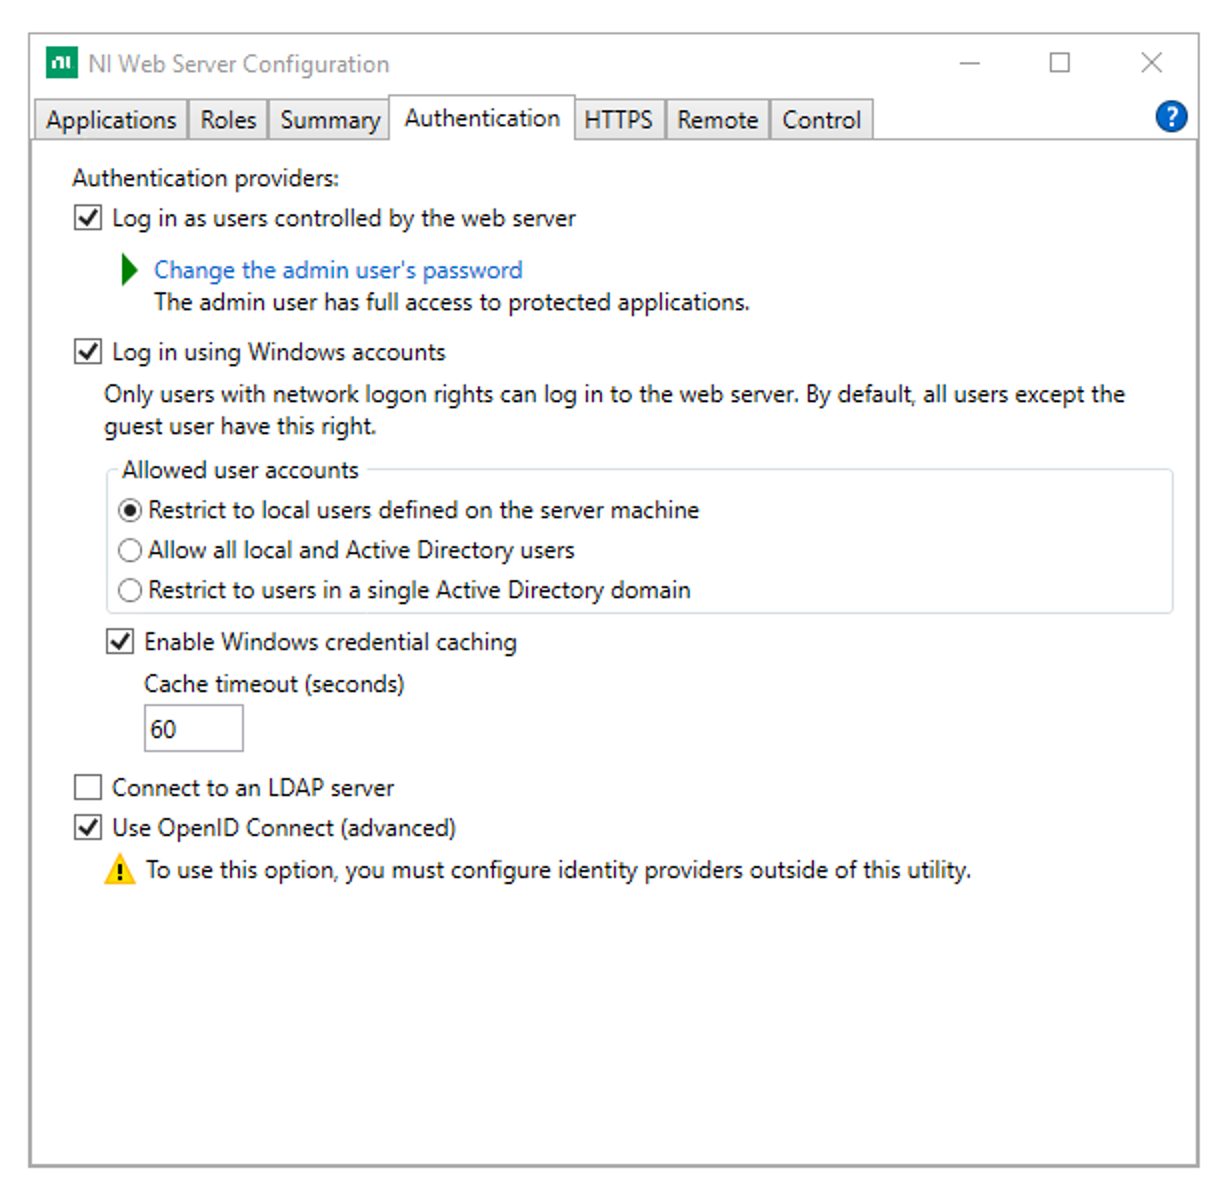
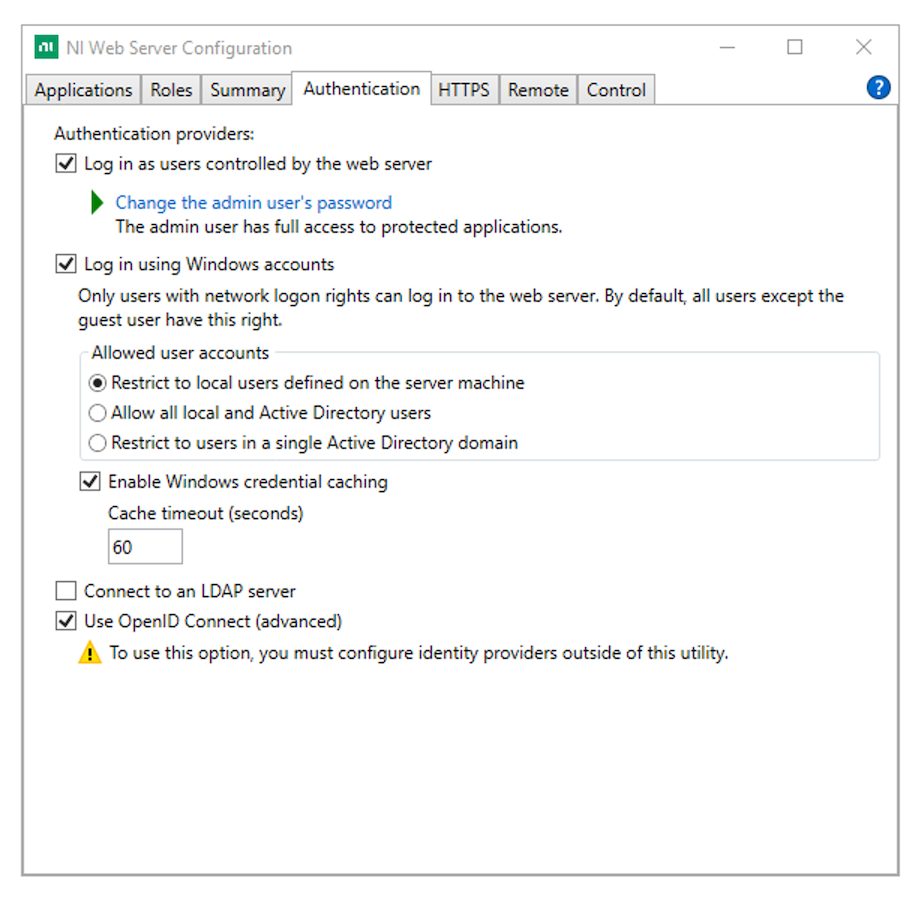
Adjust images / minor changes for grammar and style

diff --git a/handbook/openid-connect/openid-connect.md b/handbook/openid-connect/openid-connect.md
@@ -1,6 +1,6 @@
 # Authenticating with OpenID Connect
 
-You may configure SystemLink to use [OpenID Connect](https://openid.net) for user authorization. This enables SystemLink to leverage corporate single sign-on (SSO) and the additional security benefits it provides such streamlined login and limiting the proliferation of user credentials. This also enables SystemLink to utilize a common identity for users across multiple applications. OpenID connect can be used in conjunction with or as a replacement for LDAP, Active Directory, and local Windows accounts for authentication. 
+You may configure SystemLink to use [OpenID Connect](https://openid.net) for user authorization. This enables SystemLink to leverage corporate single sign-on (SSO) and the additional security benefits it provides such streamlined login and limiting the proliferation of user credentials. This also enables SystemLink to utilize a common identity for users across multiple applications. OpenID Connect can be used in conjunction with or as a replacement for LDAP, Active Directory, and local Windows accounts for authentication. 
 
 
 
@@ -17,14 +17,15 @@ You may configure SystemLink to use [OpenID Connect](https://openid.net) for use
 1. Log into the server running SystemLink and open **NI Web Server Configuration**
 2. Go to the **Authentication** tab and enable **Use OpenID Connect (advanced)**
 
-![Enable OpenID Connect in NI Web Server](odic-webserver.png)
+![Enable OpenID Connect in NI Web Server](odic-webserver.png){: style="height:500px;width:500px"}
+
 *Enable OpenID Connect in NI Web Server*
 
 ## OpenID Configuration Files in SystemLink server
 
 There are three files that must be created to connect your SystemLink server to an OpenID Connect provider: `[provider-dns].conf`, `[provider-dns].client`, and `[provider-dns].provider`. The `[provider-dns]` portion of each filename must be the URL encoded fully qualified domain name. 
 
-> For example, a OpenID provider with the DNS `openid-provider.com` would yield files named `openid-provider.com/conf` , `openid-provider.com.client`, and `openid-provider.com.provider`. 
+> For example, a OpenID provider with the DNS `openid-provider.com` would yield files named `openid-provider.com.conf` , `openid-provider.com.client`, and `openid-provider.com.provider`. 
 
 These files do no exist for new SystemLink installations. Each file must be added to the `C:\Program Files\National Instruments\Shared\Web Server\conf\openidc` directory. The NI Web Server must be restarted for these changes to take effect.
 
@@ -44,7 +45,7 @@ SystemLink can be configured to support multiple OpenID Providers simultaneously
 ```
 In this example the `openid`, `email`, and `profile` scopes are requested. Additional scopes may be requested. Consult your provider's documentation regarding exposing scopes to clients. Each scope will contain claims that can be used to map to roles within workspaces in SystemLink. See [**Mapping OpenID Connect Claims to SystemLink Workspaces and Roles**](#mapping-openid-connect-claims-to-systemlink-workspaces-and-roles) for details. 
 
-The `ni-attributes` section determines the text and (optionally) an icon to be shown in the SystemLink login page. The `iconUri` is relative to `htdocs` directory (`C:\Program Files\National Instruments\Shared\Web Server\htdocs`)
+The `ni-attributes` section determines the text and (optionally) an icon to be shown in the SystemLink login page. The `iconUri` is relative to `htdocs` directory (`C:\Program Files\National Instruments\Shared\Web Server\htdocs`). This icon should be 16x16 px. 
 
 ![SystemLink login windows with SSO login option](login-window.png)
 *SystemLink login windows with SSO login option. An icon has not been set in this example.*
@@ -59,7 +60,7 @@ The `[provider-dns].client` file is used by the NI Web Server to authenticate wi
 }
 
 ```
-The `client_id` and `client_secret` can be obtained directly from the provider. Depending on the provider the `client_id` may be user defined. After setting these properties the NI Web Server must be restarted for changes to take effect. 
+The `client_id` and `client_secret` can be obtained from the provider. Depending on the provider the `client_id` may be user defined.
 
 #### ClientID and Secret Provider Documentation
 
@@ -72,7 +73,7 @@ The `client_id` and `client_secret` can be obtained directly from the provider. 
 [ADFS - Build a server side application using OAuth confidential clients with AD FS 2016 or later](https://docs.microsoft.com/en-us/windows-server/identity/ad-fs/development/enabling-oauth-confidential-clients-with-ad-fs)
 
 ### OpenID Configuration and Discovery
-The `[provider-dns].provider` file includes the contents of the provider OpenID Connect configuration. This file informs SystemLink of of the various endpoints exposed by the provider that are used during the login process. 
+The `[provider-dns].provider` file includes the contents of the provider's OpenID Connect configuration. This file informs SystemLink of of the various endpoints exposed by the provider that are used during the login process. 
 
 You may use curl to create this file. Replace `[provider-dns]` with the DNS of your OpenID Connect Provider. 
 ```bash
@@ -96,17 +97,58 @@ The client configuration for your provider requires a redirect URL that is durin
 
 [Okta - Understand the callback route](https://developer.okta.com/docs/guides/sign-into-web-app/springboot/define-callback/)
 
+
+## Supported Signing and Encryption Protcols
+TODO list supported encryption methods. 
+
+ The following
+
 ## Mapping OpenID Connect Claims to SystemLink Workspaces and Roles
 
-Once SystemLink and the provider have been configured such that users can authenticate and login, mappings between OpenID claims and workspaces must be made in order to provide the user access to systems and data managed by SystemLink. This process is the same as the mapping workflow for LDAP and Active Directory attributes, groups, and users. Please see [Assigning Users to Roles in a Workspace](https://www.ni.com/documentation/en/systemlink/latest/setup/mapping-roles/) in the SystemLink manual. Claims may also be used to create a mapping to the **Server Adminstrator** role. 
+Once SystemLink and the provider have been configured such that users can authenticate and login, mappings between OpenID claims and workspaces must be made in order to authorize the user access to systems and data managed by SystemLink. This process is the same as the mapping workflow for LDAP and Active Directory attributes, groups, and users. Please see [Assigning Users to Roles in a Workspace](https://www.ni.com/documentation/en/systemlink/latest/setup/mapping-roles/) in the SystemLink manual. Claims may also be used to create a mapping to the **Server Adminstrator** role. 
+
+### Viewing Claims Returned by a Provider
 
 The OpenID Connect provider determines which scopes and claims are made available to clients. The available claims can be viewed at the `userinfo_endpoint` hosted by the provider. Use `https://[provider-dns]/.well-known/openid-configuration` to determine the URL of the `userinfo_endpoint`. You will need to obtain a valid bearer token to authenticate and access this endpoint.  
 
 ```bash
 curl -s https://slsso-runtime.grl-us1.uat.k8s.com/idp/userinfo.openid -H 'Authorization: Bearer eyJhbGciOiJSUzI1NiI...zJVy2oLnrBmXTmpDRm499U4~'|python -m json.tool
 ```
-Example curl request to return user info. The bearer token has been shortened for readability. 
+*Example curl request to return user info. The bearer token has been truncated for readability.*
 
+Alternatively you can view claims returned by a particular user by modifying the httpd configuration on your SystemLink server. This is accomplished by adding `AUTH_OIDC_ENABLE_CLAIM_INFO` to `C:\Program Files\National Instruments\Shared\Web Server\conf\defines.d\50_mod_auth_openidc-defines.conf`. 
+
+```conf
+#
+# Defined OpenID-Connect configuration for the Windows Apache installation.
+#
+
+AUTH_OIDC_ENABLE_CLAIM_INFO
+
+# The name of the JSON map containing metadata about each identity provider.
+Define AUTH_OIDC_ATTRIBUTES_KEY ni-attributes
+
+# CA bundle to use when making requests to an identity provider.
+Define AUTH_OIDC_BUNDLE ../nicurl/ca-bundle.crt
+
+# Path to OIDC provider configuration.
+Define AUTH_OIDC_PROVIDER_DIR ${HTCONF_PATH}/openidc
+
+# The location to redirect when performing an OpenID-Connect login.
+Define AUTH_OIDC_REDIRECT_URI /login/openidc-redirect
+
+#
+# User-editable variables.
+#
+
+# Whether OIDC is enabled.
+Define AUTH_OIDC_ENABLED
+```
+*An example `50_mod_auth_openidc-defines.conf` modified to expose user claim at the endpoint [systemlink-dns]/login/openidc-redirect?info=html. You must be logged via OpenID Connect to receive data this endpoint.*
+
+### Mapping Claims to SystemLink Roles. 
+
+Claims are returned as a JSON object.  
 ```json
 {
     "email": "mark.black@ni.com",
@@ -117,13 +159,17 @@ Example curl request to return user info. The bearer token has been shortened fo
     "sub": "mblack"
 }
 ```
+*Example response from `userinfo_endpoint`. Any of these claims may be used to map a user to a role in a workspace.*
 
-Example response from `userinfo_endpoint`. Any of these claims may be used to map a user to a role in a workspace. 
+Within the security UI the claim and its returned value can be mapped to a role within a Workspace. 
 
 ![Mapping the ni_employee claim to a workspace](claim-mapping.png)
 *Mapping the `ni_employee` claim to a workspace*
 
-If a claim returns an array of values any one of these values can be supplied in the **Value** field to create a mapping. 
+If a claim returns an array of values any one of these array members can be supplied in the **Value** field to create a mapping. 
+
+### Refreshing user claims
+If a claim for a user changes and that claim is used to drive a role mapping for a workspace, the user must logout and log back in before the new claim is received and the role assigned to the user changed. 
 
 ## Troubleshooting Failed Authentication
 Due to the amount of configuration required by both the provider and SystemLink its can be challenging to enable the entire OpenID Connect flow. The following sources can be used to troubleshoot a failed connection. 
@@ -131,3 +177,5 @@ Due to the amount of configuration required by both the provider and SystemLink 
 **OpenID Connect Provider logs:** Consult your OpenID Connect Provider's documentation on the location of their application log files. 
 
 **NI Web Server Logs:** These are found at `C:\ProgramData\National Instruments\Web Server\logs\error.log`
+
+**Returned Claims:** See [**Viewing Claims Returned by a Provider**](#viewing-claims-returned-by-a-provider)
